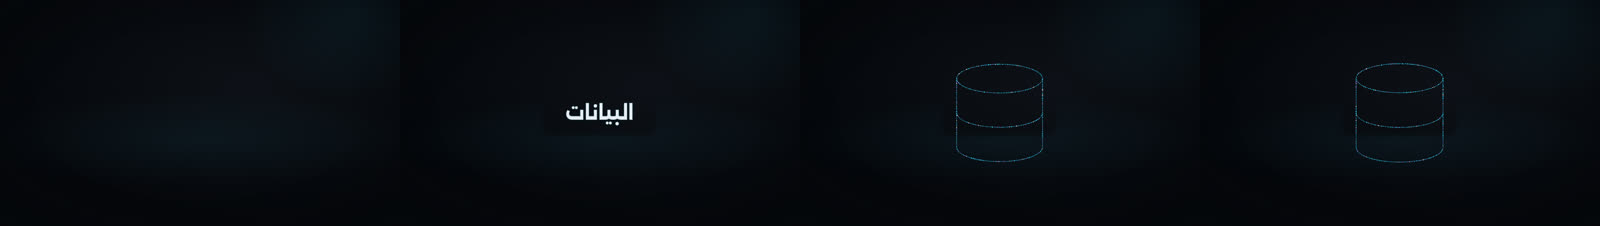
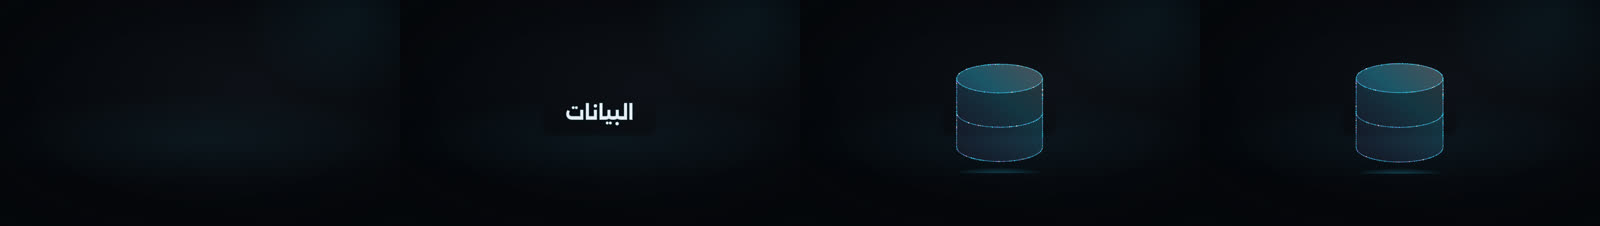
P7 fx-a: MorphTextToObject finished (lit glass body with key-light rim, floor glow and levitation, outline-sampled particles; reverse direction verified; snap PASS det 0 qa 0, baselines pending-critic; perf lite 0.077 / standard 0.119 / hero 0.113 box s/frame; Arabic QA pass)
Claude-Session: https://claude.ai/code/session_01VrU9wxU8GmuhdhWAAHnnQ8

diff --git a/studio/src/components/MorphTextToObject/MorphTextToObject.tsx b/studio/src/components/MorphTextToObject/MorphTextToObject.tsx
@@ -21,7 +21,7 @@ import type {Rect} from '../../type/safe';
 import {whenSettled} from '../../type/settle';
 import type {DcComponent, DcProps} from '../../spec/types';
 import {abs, beat, exitK} from '../_fx-a/kit';
-import {OBJECTS, objectKey, pickPoints, sampleOutline, seededOrder, type Pt} from '../_fx-a/shapes';
+import {BODY, OBJECTS, objectKey, pickPoints, sampleOutline, seededOrder, type Pt} from '../_fx-a/shapes';
 import type {Props} from './schema';
 
 const STAGGER = 0.35; // share of the morph beat spent on the reading-order stagger
@@ -72,7 +72,7 @@ export const pairParticles = (src: Pt[], dst: Pt[], rtl: boolean, seed: string, 
       dst: reverse ? t : o,
       order: n > 1 ? i / (n - 1) : 0,
       curl: random(`${seed}:c:${i}`) * 2 - 1,
-      size: 1.6 + random(`${seed}:s:${i}`) * 1.2,
+      size: 1.8 + random(`${seed}:s:${i}`) * 1.4,
       phase: random(`${seed}:p:${i}`) * Math.PI * 2,
       scatter: [o[0] + Math.cos(a) * r, o[1] + Math.sin(a) * r * 0.7],
       cls: i % 8,
@@ -83,6 +83,7 @@ export const pairParticles = (src: Pt[], dst: Pt[], rtl: boolean, seed: string, 
 /** Morph progress u (0 at the source form, 1 at the target) of the particle with reading-order rank `order`, `tau` = beats since ms. */
 export const morphU = (tau: number, order: number): number => ease.camera(clamp01((tau - STAGGER * order) / (1 - STAGGER)));
 
+const warned = new Set<string>();
 const sampleCache = new Map<string, Pt[]>();
 /** Candidate pixels of `text` (relative to its centre), rendered by the browser with the DOM text's own face. */
 const textPixels = (text: string, font: string, rtl: boolean, w: number, h: number, want: number, seed: string): Pt[] => {
@@ -142,7 +143,11 @@ const paint = (p: PaintIn) => {
   if (t < 0) return;
   const toObj = props.direction === 'text_to_object';
   const rtl = isArabic(props.text);
-  const {key} = objectKey(props.object);
+  const {key, known} = objectKey(props.object);
+  if (!known && !warned.has(props.object)) {
+    warned.add(props.object);
+    console.log(`DC_OBJECT unknown object "${props.object}" -> orb`);
+  }
   const R = Math.min(300, Math.min(w, h) * 0.46);
   const oc: Pt = [w / 2, h / 2];
   const polys = OBJECTS[key];
@@ -154,19 +159,68 @@ const paint = (p: PaintIn) => {
     parts = pairParticles(toObj ? tp : outline, toObj ? outline : tp, rtl, p.seed, !toObj);
   }
   const tau = (p.frame - tt.ms) / tt.B; // beats since the morph started
-  // ---- outline strokes (the object reads even with few particles)
-  const lineA = toObj ? 0.4 * smooth(0.55, 1, tau) : 0.4 * (1 - smooth(0, 0.35, tau)) * revealProgress(t, tt.arrive, ease.arrive);
+  // ---- the object as a lit glass body (ADR-003 LK-F: key light from the upper right, rim on the top / right edges, a floor shadow)
+  const e0 = revealProgress(t, tt.arrive, ease.arrive);
+  const formed = toObj ? smooth(0.7, 1.4, tau) : (1 - smooth(0, 0.5, tau)) * e0; // how present the body is
+  const lineA = toObj ? 0.75 * smooth(0.55, 1, tau) : 0.75 * (1 - smooth(0, 0.35, tau)) * e0;
+  const bob = Math.sin(((p.frame * 24) / p.fps / 48) * Math.PI * 2) * 3 * (toObj ? smooth(0.9, 1.6, tau) : (1 - smooth(0, 0.4, tau)) * e0);
+  if (formed > 0.01) {
+    g.save();
+    g.translate(oc[0], oc[1] + R * 1.12);
+    g.scale(1, 0.15);
+    const fl = g.createRadialGradient(0, 0, 0, 0, 0, R * 0.9);
+    fl.addColorStop(0, `${C.signal}${hex(0.32 * formed)}`);
+    fl.addColorStop(1, `${C.signal}${hex(0)}`);
+    g.fillStyle = fl;
+    g.beginPath();
+    g.arc(0, 0, R * 0.9, 0, Math.PI * 2);
+    g.fill();
+    g.restore();
+  }
+  g.save();
+  g.translate(0, bob);
+  const lit = (a0: number, a1: number, a2: number, k: number) => {
+    const gr = g.createLinearGradient(oc[0] + R * 0.8, oc[1] - R, oc[0] - R * 0.8, oc[1] + R);
+    gr.addColorStop(0, `${C.ink}${hex(a0 * k)}`);
+    gr.addColorStop(0.4, `${C.signal}${hex(a1 * k)}`);
+    gr.addColorStop(1, `${C.violet}${hex(a2 * k)}`);
+    return gr;
+  };
+  const trace = (poly: Pt[]) => {
+    g.beginPath();
+    poly.forEach((q, i) => {
+      const [x, y] = scaleP(q);
+      if (i) g.lineTo(x, y);
+      else g.moveTo(x, y);
+    });
+  };
+  if (formed > 0.01) {
+    const closed = (q: Pt[]) => q.length > 3 && q[0][0] === q[q.length - 1][0] && q[0][1] === q[q.length - 1][1];
+    const body = BODY[key] ?? polys.filter(closed);
+    g.fillStyle = lit(0.16, 0.2, 0.05, formed);
+    for (const poly of body) {
+      trace(poly);
+      g.closePath();
+      g.fill();
+    }
+  }
   if (lineA > 0.01) {
-    g.strokeStyle = `${C.signal}${hex(lineA)}`;
-    g.lineWidth = 1.5;
     g.lineJoin = 'round';
+    g.lineCap = 'round';
+    if (p.litePlus) {
+      g.globalCompositeOperation = 'lighter';
+      g.strokeStyle = lit(0.5, 0.5, 0.2, lineA * 0.3);
+      g.lineWidth = 7;
+      for (const poly of polys) {
+        trace(poly);
+        g.stroke();
+      }
+      g.globalCompositeOperation = 'source-over';
+    }
+    g.strokeStyle = lit(1, 0.9, 0.55, lineA);
+    g.lineWidth = 2;
     for (const poly of polys) {
-      g.beginPath();
-      poly.forEach((q, i) => {
-        const [x, y] = scaleP(q);
-        if (i) g.lineTo(x, y);
-        else g.moveTo(x, y);
-      });
+      trace(poly);
       g.stroke();
     }
   }
@@ -224,6 +278,7 @@ const paint = (p: PaintIn) => {
     g.arc(s.x, s.y, s.r, 0, Math.PI * 2);
     g.fill();
   }
+  g.restore();
 };
 
 export const MorphTextToObjectView: React.FC<DcProps<Props>> = ({props, ctx}) => {

diff --git a/studio/src/components/_fx-a/shapes.ts b/studio/src/components/_fx-a/shapes.ts
@@ -61,6 +61,27 @@ export const OBJECTS: Record<string, Poly[]> = {
   phone: [rrect(-0.46, -0.96, 0.46, 0.96, 0.12), [[-0.3, -0.7], [0.3, -0.7]], [[-0.3, 0.7], [0.3, 0.7]], circle(0, 0.82, 0.05, 8)],
   orb: [circle(0, 0, 0.9, 48), arc(0, 0, 0.9, 0.3, 0, 360, 36), arc(0, 0, 0.3, 0.9, 0, 360, 36)],
 };
+/** Solid silhouettes for the glass body (filled under the outline). Closed outlines fill by themselves; open ones list a body here. */
+export const BODY: Record<string, Poly[]> = {
+  database: [
+    [...arc(0, -0.62, 0.78, 0.26, 180, 360, 24), [0.78, 0.62], ...arc(0, 0.62, 0.78, 0.26, 0, 180, 24), [-0.78, -0.62]],
+    arc(0, -0.62, 0.78, 0.26, 0, 360, 36),
+  ],
+  lock: [rrect(-0.7, -0.08, 0.7, 0.92, 0.12)],
+  key: [circle(-0.5, 0, 0.36)],
+  cloud: [[...arc(-0.42, 0.18, 0.42, 0.42, 90, 270, 12), ...arc(-0.1, -0.24, 0.42, 0.42, 180, 360, 12), ...arc(0.42, 0.0, 0.4, 0.4, 270, 450, 12), [0.42, 0.4], [-0.42, 0.6]]],
+  gear: [gear()],
+  shield: [[[0, -0.98], [0.78, -0.72], [0.78, -0.1], ...arc(0, -0.1, 0.78, 1.0, 0, 90, 14), ...arc(0, -0.1, 0.78, 1.0, 90, 180, 14), [-0.78, -0.1], [-0.78, -0.72]]],
+  document: [[[-0.58, -0.92], [0.18, -0.92], [0.58, -0.52], [0.58, 0.92], [-0.58, 0.92]]],
+  server: [rrect(-0.85, -0.9, 0.85, -0.38, 0.06), rrect(-0.85, -0.26, 0.85, 0.26, 0.06), rrect(-0.85, 0.38, 0.85, 0.9, 0.06)],
+  coin: [circle(0, 0, 0.92, 48)],
+  check: [circle(0, 0, 0.92, 48)],
+  card: [rrect(-0.95, -0.6, 0.95, 0.6, 0.12)],
+  phone: [rrect(-0.46, -0.96, 0.46, 0.96, 0.12)],
+  orb: [circle(0, 0, 0.9, 48)],
+  bolt: [[[0.2, -0.98], [-0.54, 0.1], [-0.04, 0.1], [-0.2, 0.98], [0.56, -0.2], [0.06, -0.2]]],
+  chart: [rect(-0.6, 0.1, -0.34, 0.8), rect(-0.18, -0.3, 0.08, 0.8), rect(0.24, -0.7, 0.5, 0.8)],
+};
 export const OBJECT_NAMES = Object.keys(OBJECTS);
 
 /** Library name of a catalog `object` string (case / separators ignored); unknown -> orb. */
